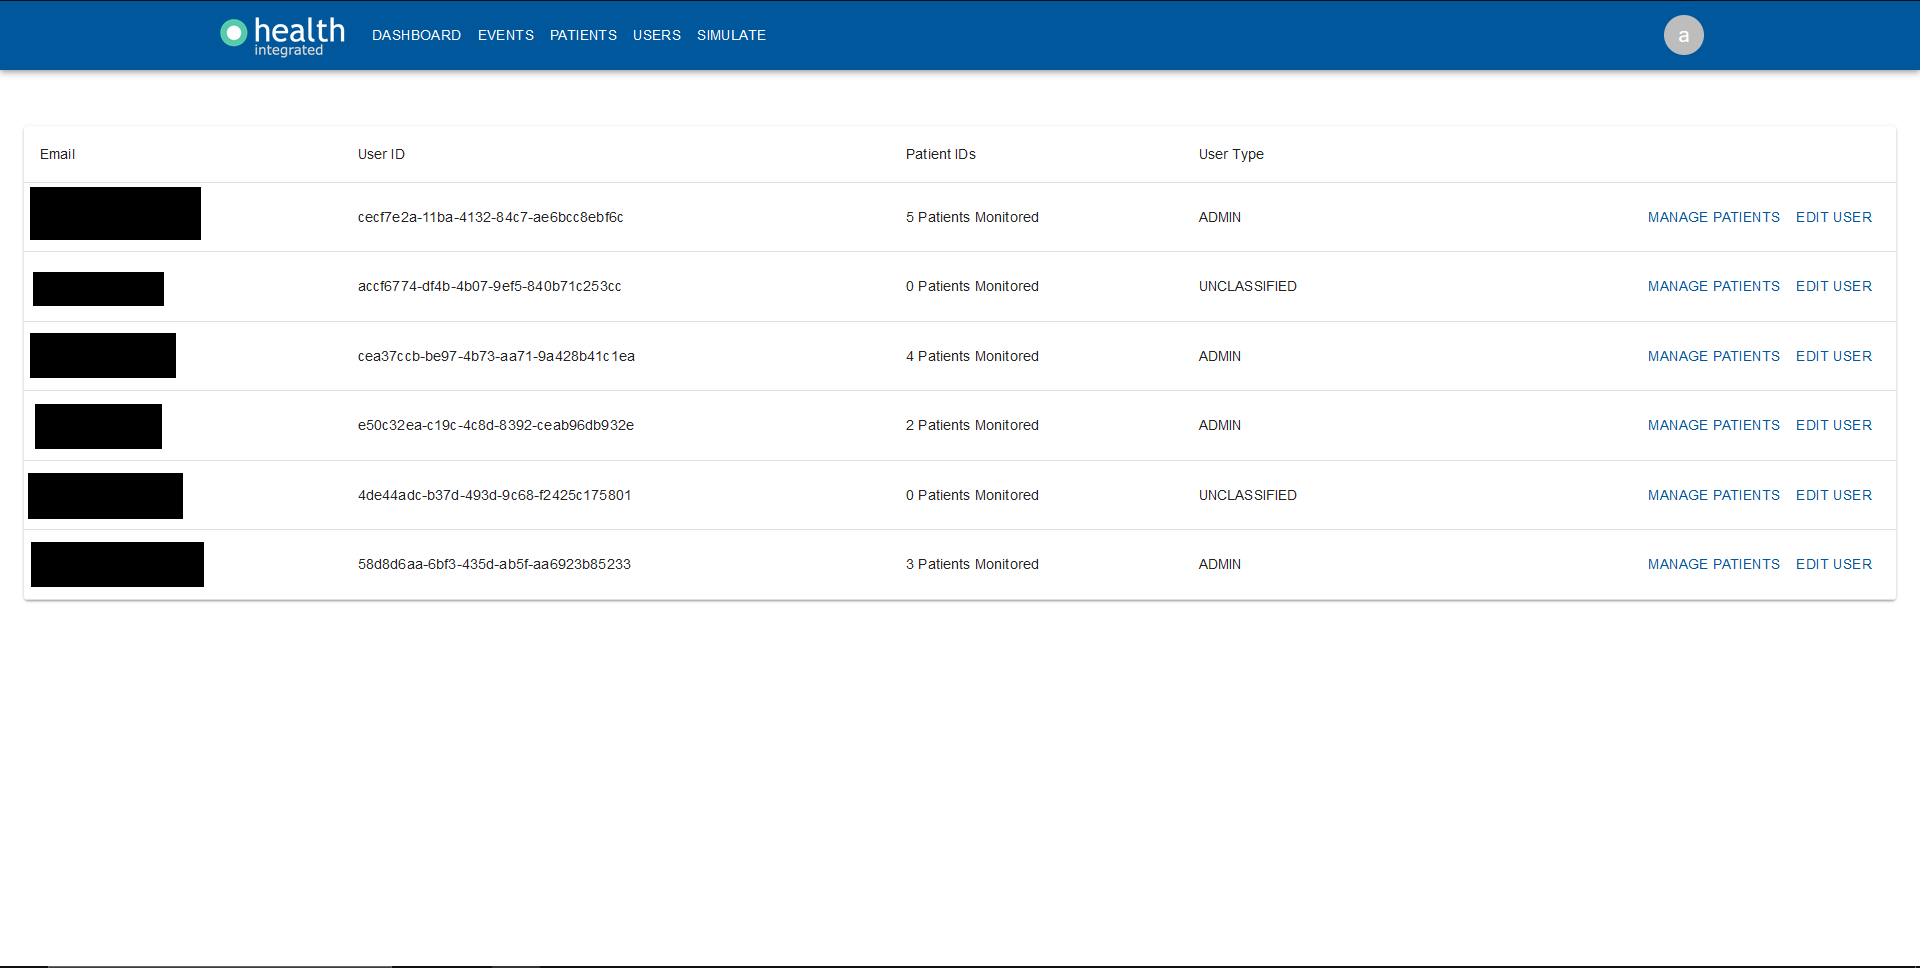
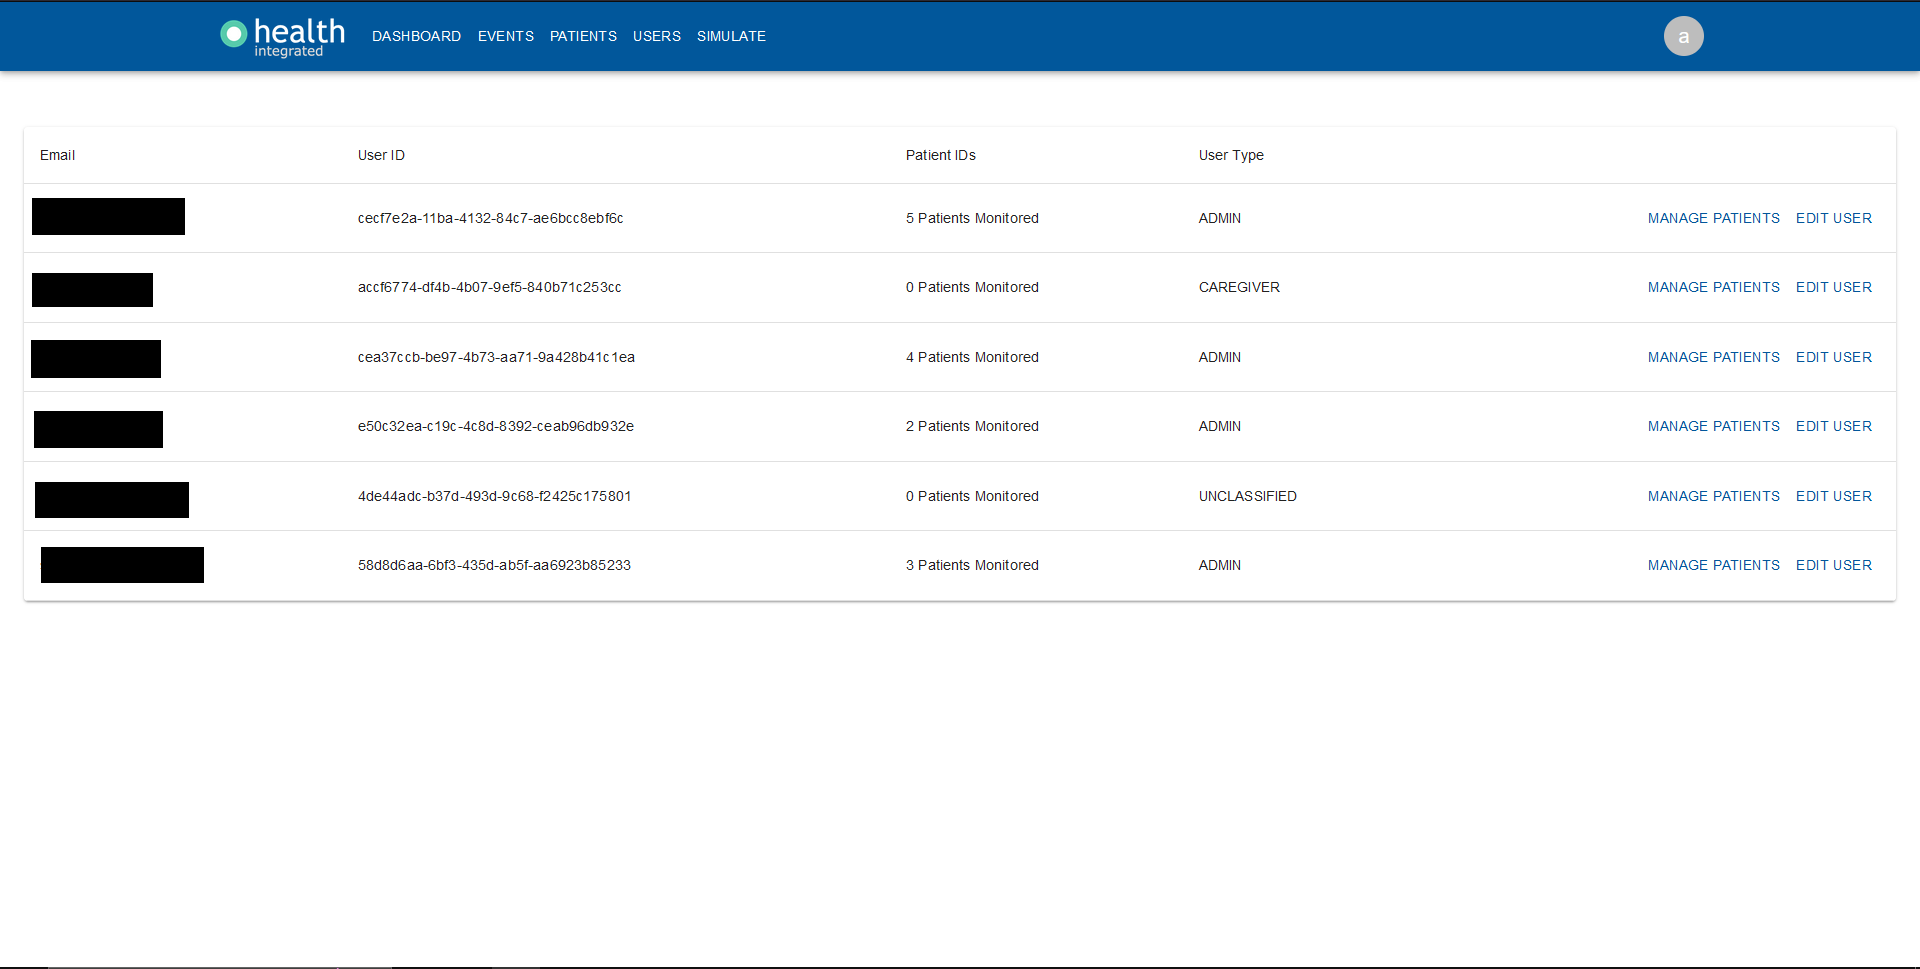
Updating user guide

diff --git a/README.md b/README.md
@@ -2,15 +2,51 @@
 
 A platform designed to collect and integrate data from wearables and environmental sensors into a single UI. 
 
+| Index                                                 | Description                                               |
+|:------------------------------------------------------|:----------------------------------------------------------| 
+| [High Level Architecture](#High-Level-Architecture)   | High level overview illustrating component interactions   |
+| [Deployment](#Deployment-Guides)                      | How to deploy the project                                 |
+| [User Guide](#User-Guide)                             | The working solution                                      |
+| [Changelog](#Changelog)                               | Any changes post publish                                  |
+| [License](#License)                                   | License details                                           |
+
 # High Level Architecture
 
 ![alt text](docs/images/pacific-autism-architecture.jpg)
 
-# Deployment Guide
+# Deployment Guides
 
-To deploy this solution, please follow our [Deployment Guide](docs/DeploymentGuide.md)
+To deploy this solution, please follow our [Deployment Guides](docs/DeploymentGuide.md)
 
 # User Guide
+
+**Before Continuing with this User Guide, please make sure you have deployed the frontend and backend stacks, as well as any sensors you may have.**
+
+- [Deployment Guides](docs/DeploymentGuide.md)
+
+| Index                                                                                        | Description                                               |
+|:---------------------------------------------------------------------------------------------|:----------------------------------------------------------| 
+| [Creating an Account and Account Options](#Creating-an-Account-and-Account-Options)          | Create an account for caregiver/admin access              |
+| [Main Dashboard](#Main-Dashboard)                                                            | How the main dashboard works                              |
+| [Add Events](#Add-Events)                                                                    | Adding any events                                         |
+| [Add Patients, Assign Caregivers and Sensors](#Add-Patients,-Assign-Caregivers-and-Sensors)  | Setting up patients for monitoring                        |
+| [Manage Account User Types](#Manage-Account-User-Types)                                      | Manage account types                                      |
+
+### Creating an Account and Account Options
+
+![alt text](docs/images/dashboard_user_guide/login_page.PNG)
+
+After deploying both the frontend and backend stacks, the user will see this login page after clicking the generated Amplify link. 
+
+![alt text](docs/images/dashboard_user_guide/create_account.PNG)
+![alt text](docs/images/dashboard_user_guide/reset_password.PNG)
+
+An account can be created or a password can be changed by clicking the respective buttons.
+
+![alt text](docs/images/dashboard_user_guide/user_options.PNG)
+![alt text](docs/images/dashboard_user_guide/change_password.PNG)
+
+It is also possible to change a password through the dashboard by clicking on the user icon at the top right corner and clicking change password. This same menu is used to logout from an account.
 
 ### Main Dashboard
 
@@ -20,7 +56,7 @@ This is the main dashboard where the user will see all patient sensor data that 
 
 On the left sidebar specific timeframes for a search can be specified, as well as a specific patient. The patient dropdown menu allows the user to view the data of all  patients or a specific individual. A relative time interval specifies a timeframe in the format "start: 12 hours ago, end: hours ago". If the time and data is currently 05/31/2022 4:00 pm, the equivalent timeframe using an absolute time interval would be "start: 05/31/2022 4:00am, end: 05/31/2022 4:00pm". The period and statistic dropdown menus allow the user to control the granularity of the data displayed. If use local timezone is disabled, the dashboard will default to using the UTC timezone.
 
-In the Event Timeline, the user will be able to see a timeline of all user inputted events for the specified patients. It is also possible to create events here by clicking the create event button.
+In the Event Timeline, the user will be able to see a timeline of all user inputted events for the specified patients. It is also possible to create events here by clicking the create event button. Reference [Add Events](#add-events) for more details.
 
 Under the Event Timeline is the data of each datatype currently being monitored by the patients. Each datatype will have a separate graph that shows the data for the specified patients. Drag on the graph to zoom in, or use the controls on the top right of the graph to control the zoom.
 
@@ -30,11 +66,27 @@ Under the Event Timeline is the data of each datatype currently being monitored 
 
 The events page displays all logged patient events found for the filters on the left. Caregivers are only allowed to see the events of patients who are assigned to them and new events can be logged on this page using the create event button. Events can also be searched by keyword by using the text search field.
 
+![alt text](docs/images/dashboard_user_guide/create_event.PNG)
+
+After selecting the create event the user will see this window. Select the start and end time for the event, the patient for which the event occured, and fill in the remaining applicable information about the event. Finish by clicking the create button at the bottom right corner. Your event will show up in the main events page if you have the correct timeframe selected.
+
 ### Add Patients, Assign Caregivers and Sensors
 
 ![alt text](docs/images/dashboard_user_guide/patients_dashboard.PNG)
 
 The patients page displays all patients along with their assigned patients and sensors. The add patient button at the top right of the dashboard is used to add a patient, a unique patient id is assigned to them at this time. A patient's caregivers and sensors can be managed by clicking the respective manage buttons. The edit patient button allows the user to change the name of a patient.
+
+![alt text](docs/images/dashboard_user_guide/add_patient.PNG)
+
+By clicking the add patient button, a new patient can be added. Be sure to click save at the bottom right corner after filling in the name.
+
+![alt text](docs/images/dashboard_user_guide/manage_caregivers.PNG)
+
+Click the manage button next to a patient's caregivers will pull up this window. The user will be able to remove caregivers using the respective remove caregiver button, or add a caregiver using the button at the top right corner. **Make sure to click save after making any changes to a patient's caregivers.**
+
+![alt text](docs/images/dashboard_user_guide/add_caregiver.PNG)
+
+Add a caregiver by selecting a caregiver from the dropdown menu and clicking add. Make sure to click save on the manage caregivers page after.
 
 ### Manage Account User Types
 
@@ -48,10 +100,21 @@ There are 3 types of users:
 
 - CAREGIVER: Permissions to view the dashboard, patients, and create events are assigned to the caregiver.
 
-- ADMIN: Same as caregiver, with additional permissions to edit caregivers and assign patients.
+- ADMIN: Same as caregiver, with additional permissions to edit caregivers and assign patients. Both admins and caregivers can be a caregiver for a patient.
 
 - UNCLASSIFIED: Upon registration, users are UNCLASSIFIED and do not have any data access permissions until they are assigned another user type.
 
+![alt text](docs/images/dashboard_user_guide/manage_patients.PNG)
+
+Clicking the manage patients button allows the user to see all patients a user is a caregiver for. Clicking dissociate patient will remove the user as the patient's caregiver. **Make sure to click save after making any changes to a user's patients.**
+
+![alt text](docs/images/dashboard_user_guide/edit_user_details.PNG)
+
+Use the edit user button to assign new accounts a role or change the role of a pre-existing account. Any newly created users are given the unclassified role, and any admin is able to assign either the caregiver or admin role to to an unclassified user. Admins can also change the role of an existing user. It is NOT possible to alter the User ID or email. It is also possible to delete a user by clicking the delete user button. **Make sure to click save after making any changes to a user's role.**
+
+# Changelog
+
+N/A
 
 # License
 
